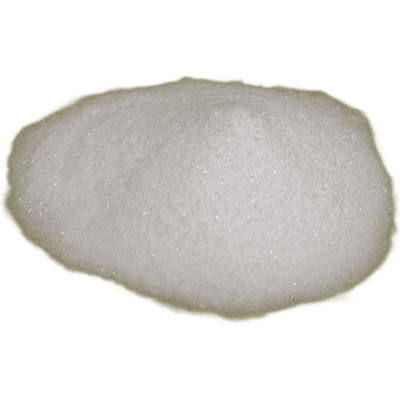
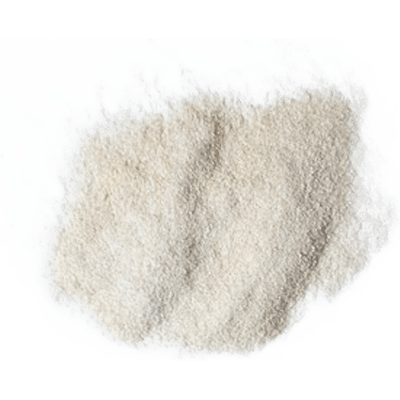
Tambah baking soda dan ganti foto agar-agar
- Baking Soda (Soda Kue) di rak Tepung & Pengembang, dengan info gizi.
- Foto agar-agar diganti foto bubuk agar (kanten) asli supaya tidak
  kembar dengan foto baking soda; kredit README diperbarui.

diff --git a/src/lib/data.ts b/src/lib/data.ts
@@ -246,6 +246,7 @@ export const products: Product[] = [
     ["tepung-ketan", "Tepung Ketan Putih", "/produk/tepung-ketan.png", 9000, "500 g"],
     ["tepung-tapioka", "Tepung Tapioka", "/produk/tepung-tapioka.png", 7500, "500 g"],
     ["baking-powder", "Baking Powder", "/produk/baking-powder.png", 9000, "45 g"],
+    ["baking-soda", "Baking Soda (Soda Kue)", "/produk/baking-soda.png", 6000, "100 g"],
     ["ragi", "Ragi Instan", "/produk/ragi.png", 7000, "3 sachet"],
     ["tepung-maizena", "Tepung Maizena", "/produk/tepung-maizena.png", 9000, "150 g"],
   ]),

diff --git a/README.md b/README.md
@@ -74,7 +74,7 @@ Next.js 16 (App Router) · Tailwind CSS 4 · Zustand (keranjang, disimpan di loc
   - skm — [Tin of condensed milk.jpg](https://commons.wikimedia.org/wiki/File:Tin_of_condensed_milk.jpg), Robin from Rotterdam, Netherlands, CC BY-SA 2.0
   - whipping-cream — [Frozen Whipped Cream Sandwiches.jpg](https://commons.wikimedia.org/wiki/File:Frozen_Whipped_Cream_Sandwiches.jpg), Jo, CC BY 2.0
   - cream-cheese — [2019-10-12 15 31 00 A open carton of Harris Teeter Plain Cream Cheese Spread in the Dulles section of Sterling, Loudoun County, Virginia.jpg](https://commons.wikimedia.org/wiki/File:2019-10-12_15_31_00_A_open_carton_of_Harris_Teeter_Plain_Cream_Cheese_Spread_in_the_Dulles_section_of_Sterling,_Loudoun_County,_Virginia.jpg), Famartin, CC BY-SA 4.0
-  - agar — [Sodium bicarbonate.jpg](https://commons.wikimedia.org/wiki/File:Sodium_bicarbonate.jpg), Thavox, Public domain
+  - agar — [Agar-agar.jpg](https://commons.wikimedia.org/wiki/File:Agar-agar.jpg), Unkky, CC BY-SA 3.0
   - kelapa-kering — [Coconut Cookies (4801683503).jpg](https://commons.wikimedia.org/wiki/File:Coconut_Cookies_(4801683503).jpg), Miia Ranta from Finland, CC BY-SA 2.0
   - biskuit — [Morinaga marie biscuit 2014-2.jpg](https://commons.wikimedia.org/wiki/File:Morinaga_marie_biscuit_2014-2.jpg), Kentin, CC BY-SA 4.0
   - jamur-enoki — [A small but tasty harvest (10843427516).jpg](https://commons.wikimedia.org/wiki/File:A_small_but_tasty_harvest_(10843427516).jpg), Wendell Smith, CC BY 2.0
@@ -94,4 +94,5 @@ Next.js 16 (App Router) · Tailwind CSS 4 · Zustand (keranjang, disimpan di loc
   - sagu-mutiara — [Sago 20161224.jpg](https://commons.wikimedia.org/wiki/File:Sago_20161224.jpg), Televido, CC BY-SA 4.0
   - yogurt — [Plain Yogurt.jpg](https://commons.wikimedia.org/wiki/File:Plain_Yogurt.jpg), Alabama Extension, CC0
   - gula-cokelat — [Brown sugar.jpg](https://commons.wikimedia.org/wiki/File:Brown_sugar.jpg), EstherDje, CC BY-SA 4.0 (warna sedikit dihangatkan)
+  - baking-soda — [Sodium bicarbonate.jpg](https://commons.wikimedia.org/wiki/File:Sodium_bicarbonate.jpg), Thavox, Public domain
 - Gambar keranjang: disediakan pemilik proyek
